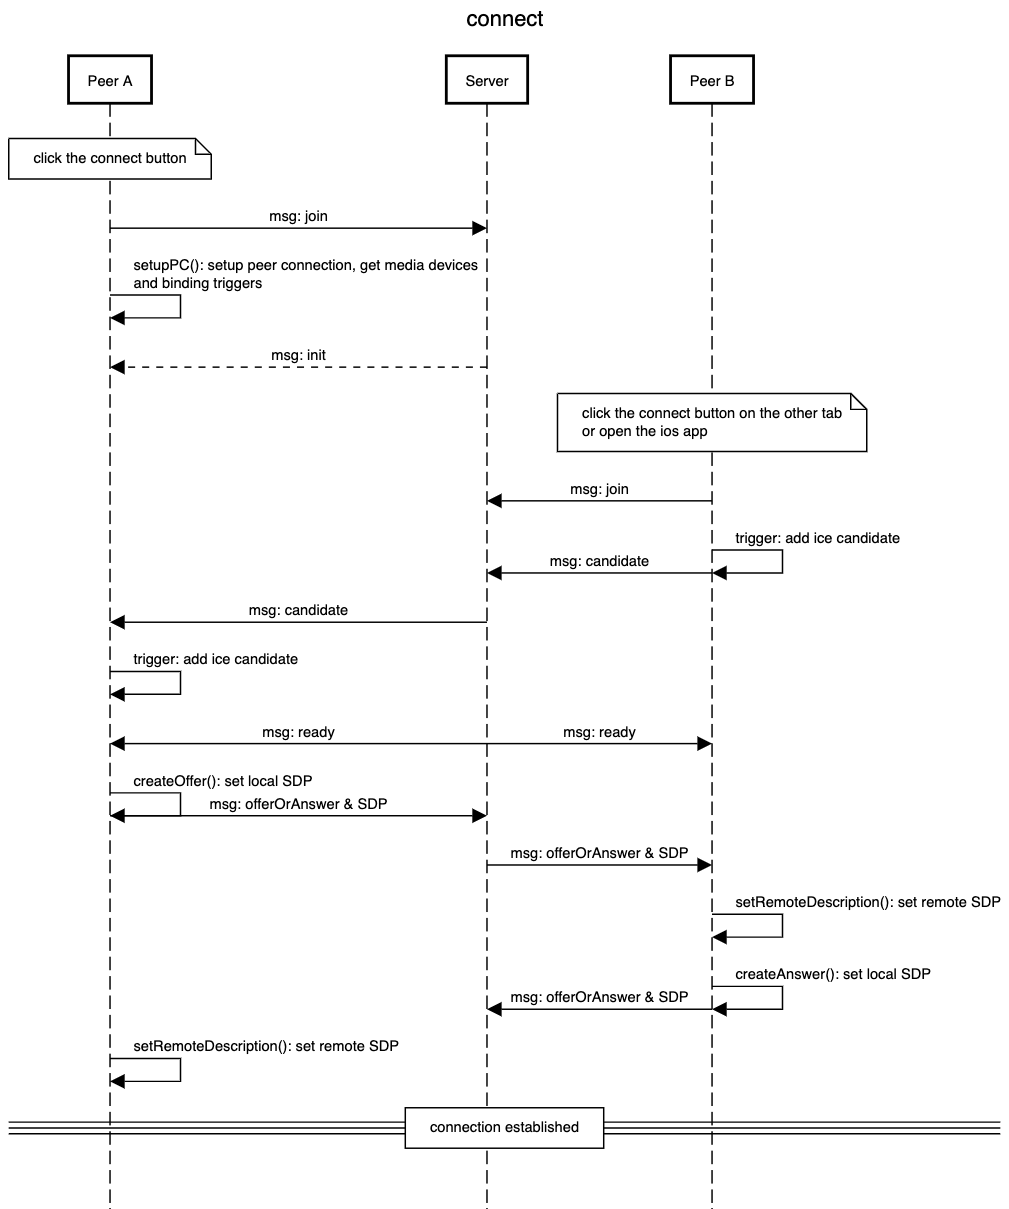
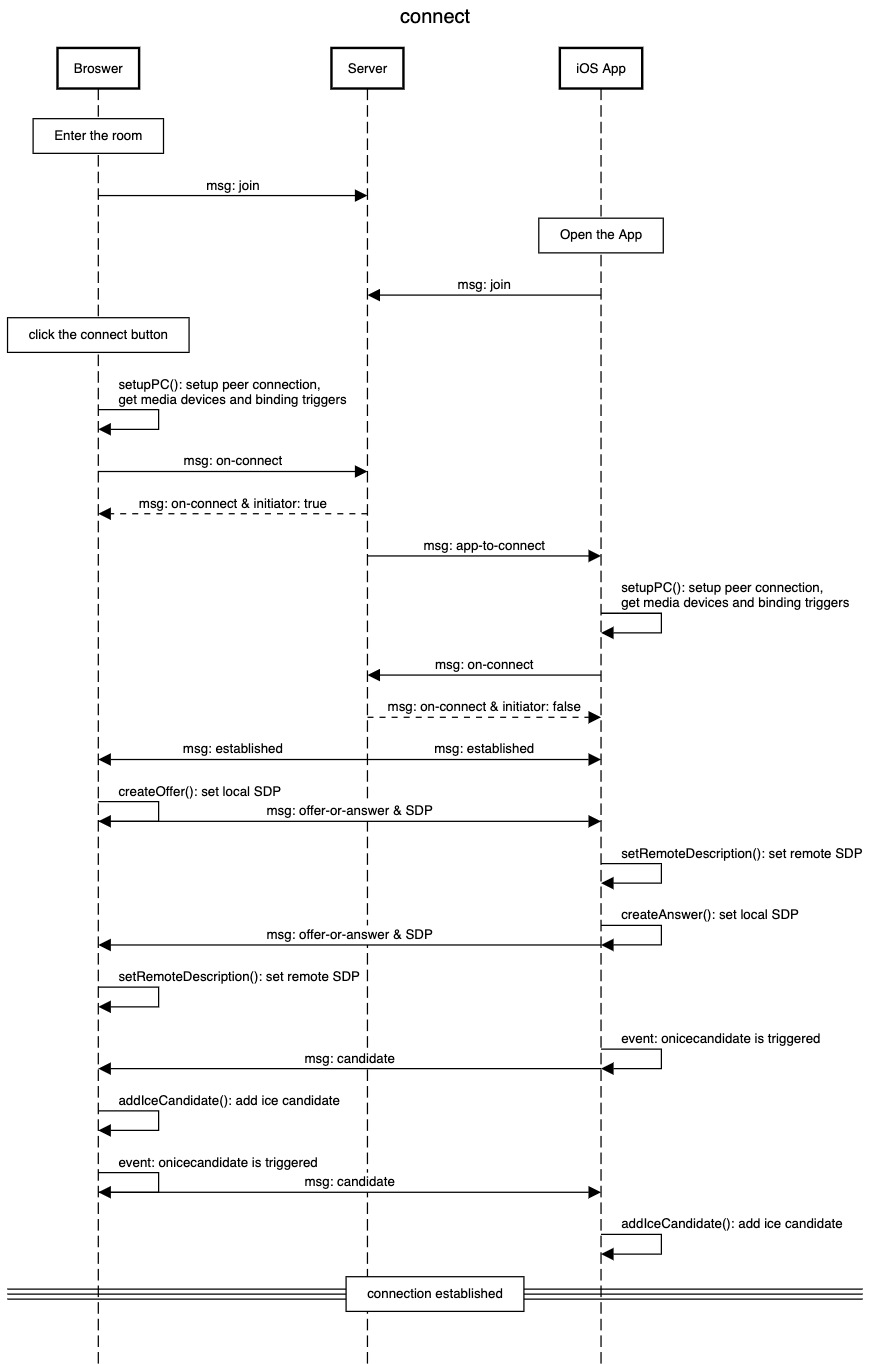
Update README

diff --git a/README.md b/README.md
@@ -88,7 +88,7 @@ The server is developed based on Express.js. Express is a minimal and flexible N
 
 The main responsibility of the server is to provide communication services. For this, Socket.IO is used here. Socket.IO is a library that enables real-time, bidirectional, and event-based communication between the browser and the server. In Socket.IO, all communications are based on the concept of the room, which is very suitable for our project. Socket objects can send messages to anyone in the same room and all the room are independent. Using that we can run multiple services for different purposes. We can also easily extend our system to provide functions like a web page to control multiple devices or multiple web pages to monitor one device.
 
-The server listens to some important messages, like `join`, `candidate` and `offerOrAnswer`. The following table describes the socket message the server monitor and the operation it will do.
+The server listens to some important messages, like `join`, `on-connect` and `offer-or-answer`. The following table describes the socket message the server monitor and the operation it will do.
 
 
 <table>
@@ -101,11 +101,17 @@ The server listens to some important messages, like `join`, `candidate` and `off
   <tr>
    <td>join
    </td>
-   <td>Check the number of sockets in the room and emit the corresponding message to the front-end
+   <td>Check the number of sockets in the room and log the corresponding message
    </td>
   </tr>
   <tr>
-   <td>offerOrAnswer
+   <td>on-connect
+   </td>
+   <td>Specify caller and callee. If both caller and callee are specified, emit “established”
+   </td>
+  </tr>
+  <tr>
+   <td>offer-or-answer
    </td>
    <td>Log the SDP data and emit the data to the others in that room
    </td>
@@ -120,6 +126,18 @@ The server listens to some important messages, like `join`, `candidate` and `off
    <td>setting
    </td>
    <td>Log the camera settings and emit the settings to the ios app
+   </td>
+  </tr>
+  <tr>
+   <td>take-photo
+   </td>
+   <td>Emit a message to the ios app to take photos
+   </td>
+  </tr>
+  <tr>
+   <td>close
+   </td>
+   <td>Emit a message to others in the room to pause streaming and release the camera
    </td>
   </tr>
   <tr>
